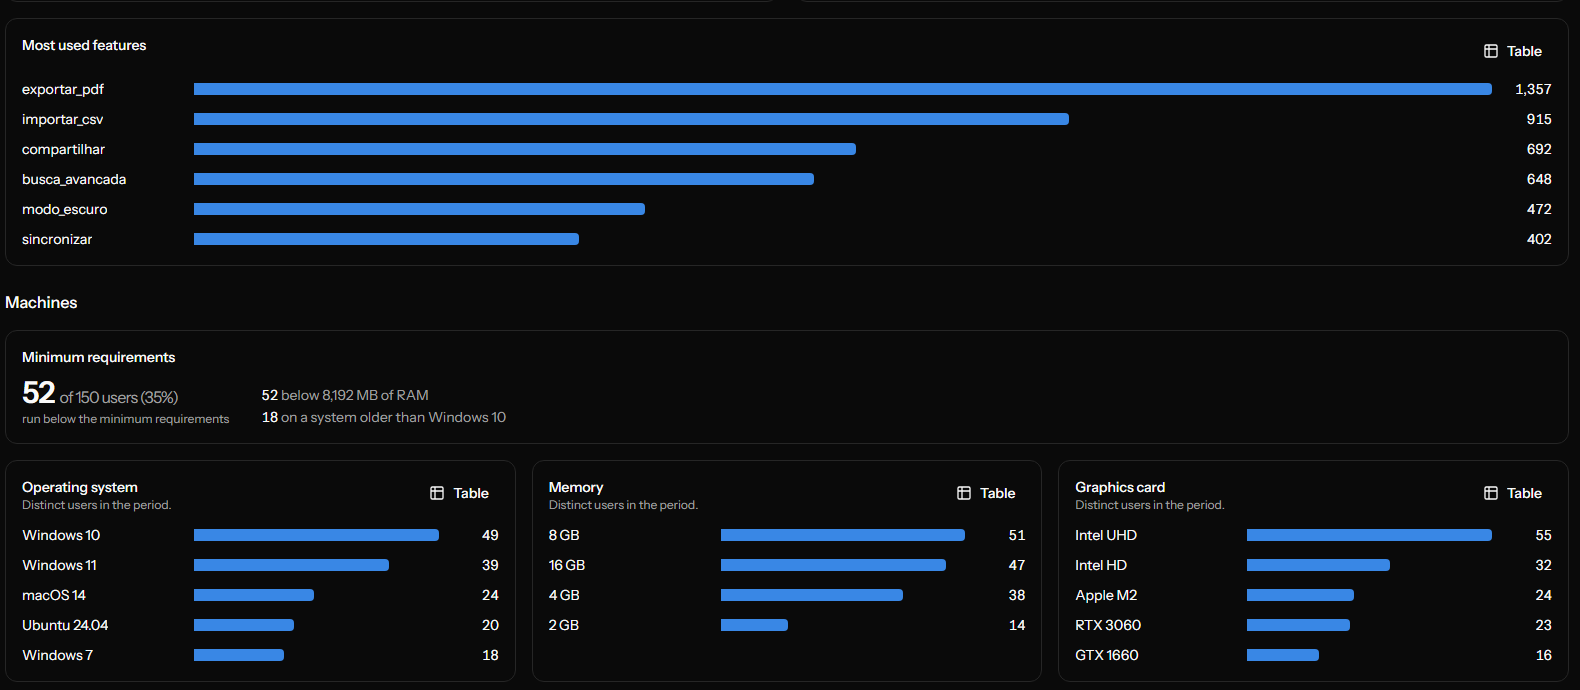
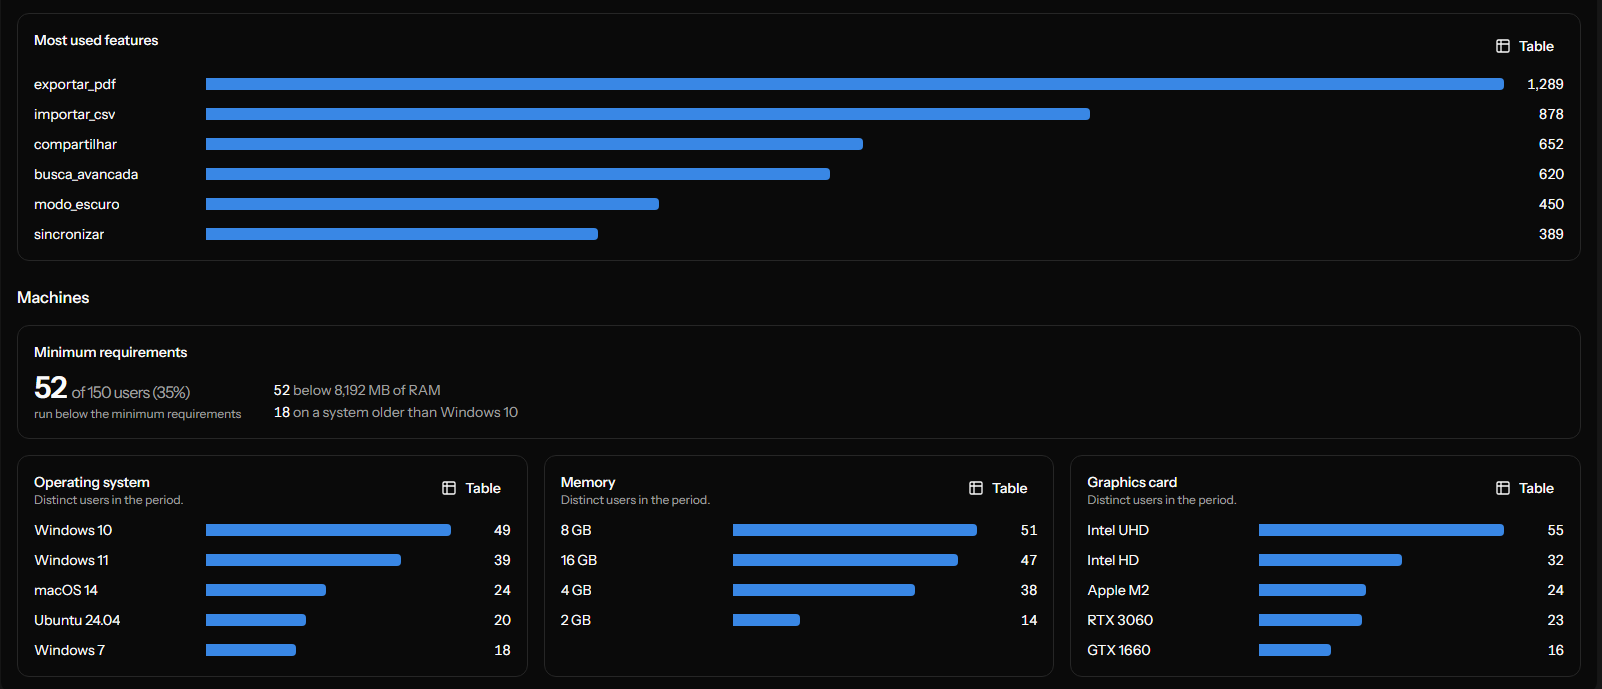
fix: spread today's simulated sessions up to now so charts do not end at zero

diff --git a/app/Services/DemoDataGenerator.php b/app/Services/DemoDataGenerator.php
@@ -122,7 +122,13 @@ class DemoDataGenerator
      */
     private function session(array $user, string $version, CarbonImmutable $date, CarbonImmutable $end): array
     {
-        $at = $date->addSeconds(mt_rand(8 * 3600, 22 * 3600));
+        // A full day has its sessions between 8:00 and 22:00. Today is still going on, so its sessions
+        // are spread from midnight to "now" (leaving room for the events that follow a session start).
+        // Otherwise the last point of every chart would fall to zero, as if the app had gone down.
+        $elapsed = (int) $date->diffInSeconds($end);
+        $at = $elapsed < 86400
+            ? $date->addSeconds(mt_rand(0, max(0, $elapsed - 3600)))
+            : $date->addSeconds(mt_rand(8 * 3600, 22 * 3600));
         $base = ['app_version' => $version, 'user_ref' => $user['ref']];
 
         $events = [$base + [

diff --git a/tests/Feature/Console/SimulateApmTest.php b/tests/Feature/Console/SimulateApmTest.php
@@ -119,3 +119,17 @@ describe('with --api-key', function () {
         expect(Event::count())->toBe(0);
     });
 });
+
+it('fills today too, so the last point of a chart does not fall to zero', function () {
+    // Early morning: with sessions only between 8:00 and 22:00, today would be empty.
+    $until = now()->setTime(5, 15);
+
+    $perDay = collect((new DemoDataGenerator)->generate(10, 150, 42, $until))
+        ->where('type', Event::TYPE_SESSION_START)
+        ->countBy(fn (array $event) => substr($event['occurred_at'], 0, 10));
+
+    $today = $perDay[$until->toDateString()] ?? 0;
+    $yesterday = $perDay[$until->subDay()->toDateString()];
+
+    expect($today)->toBeGreaterThan($yesterday * 0.5);
+});
